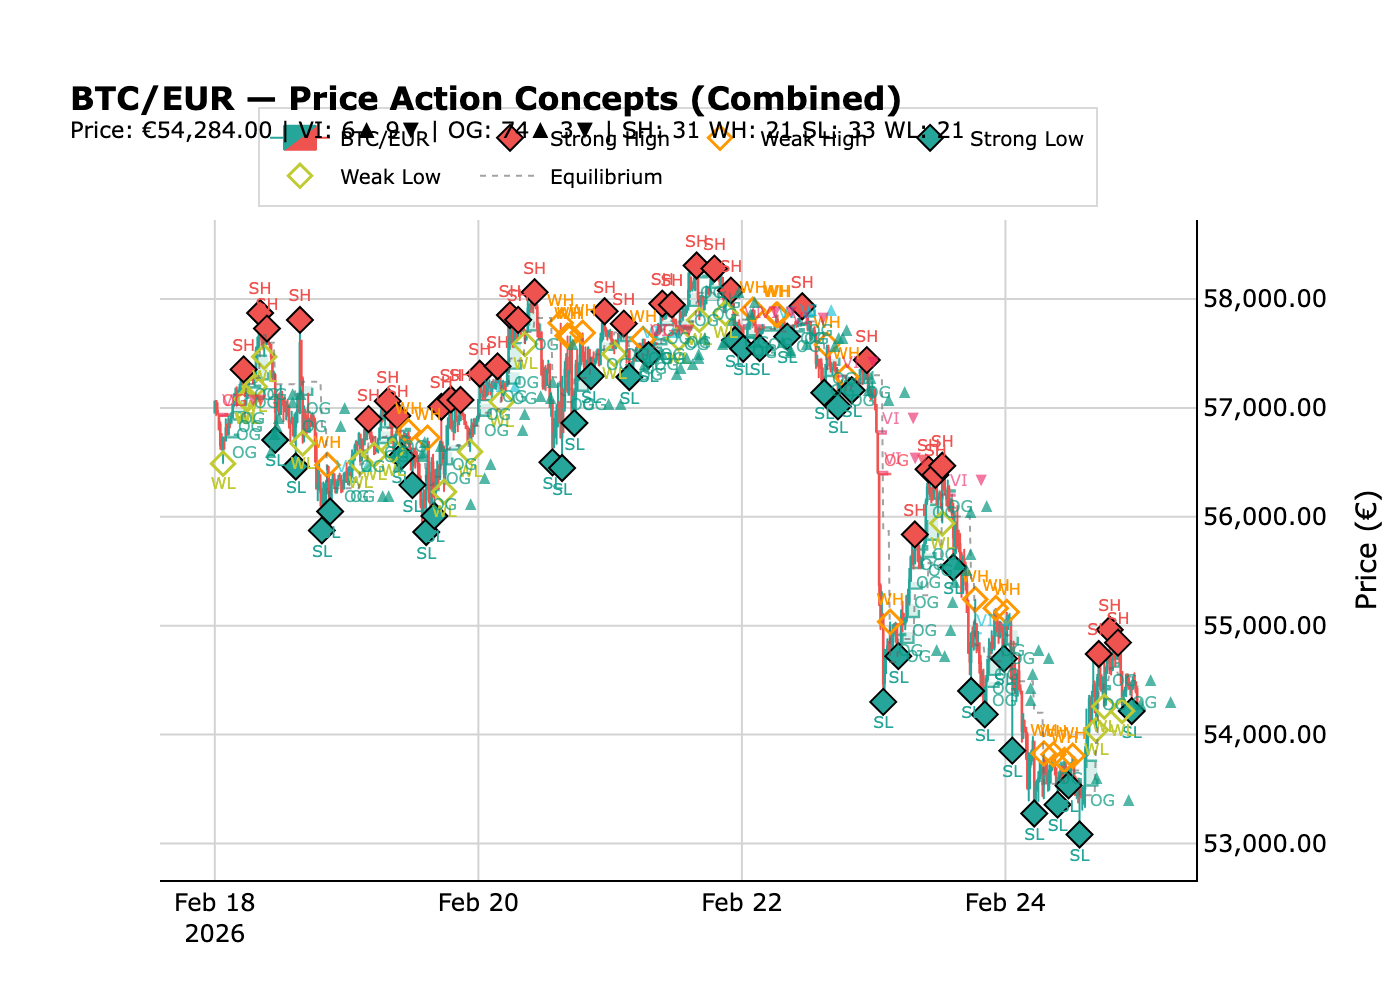
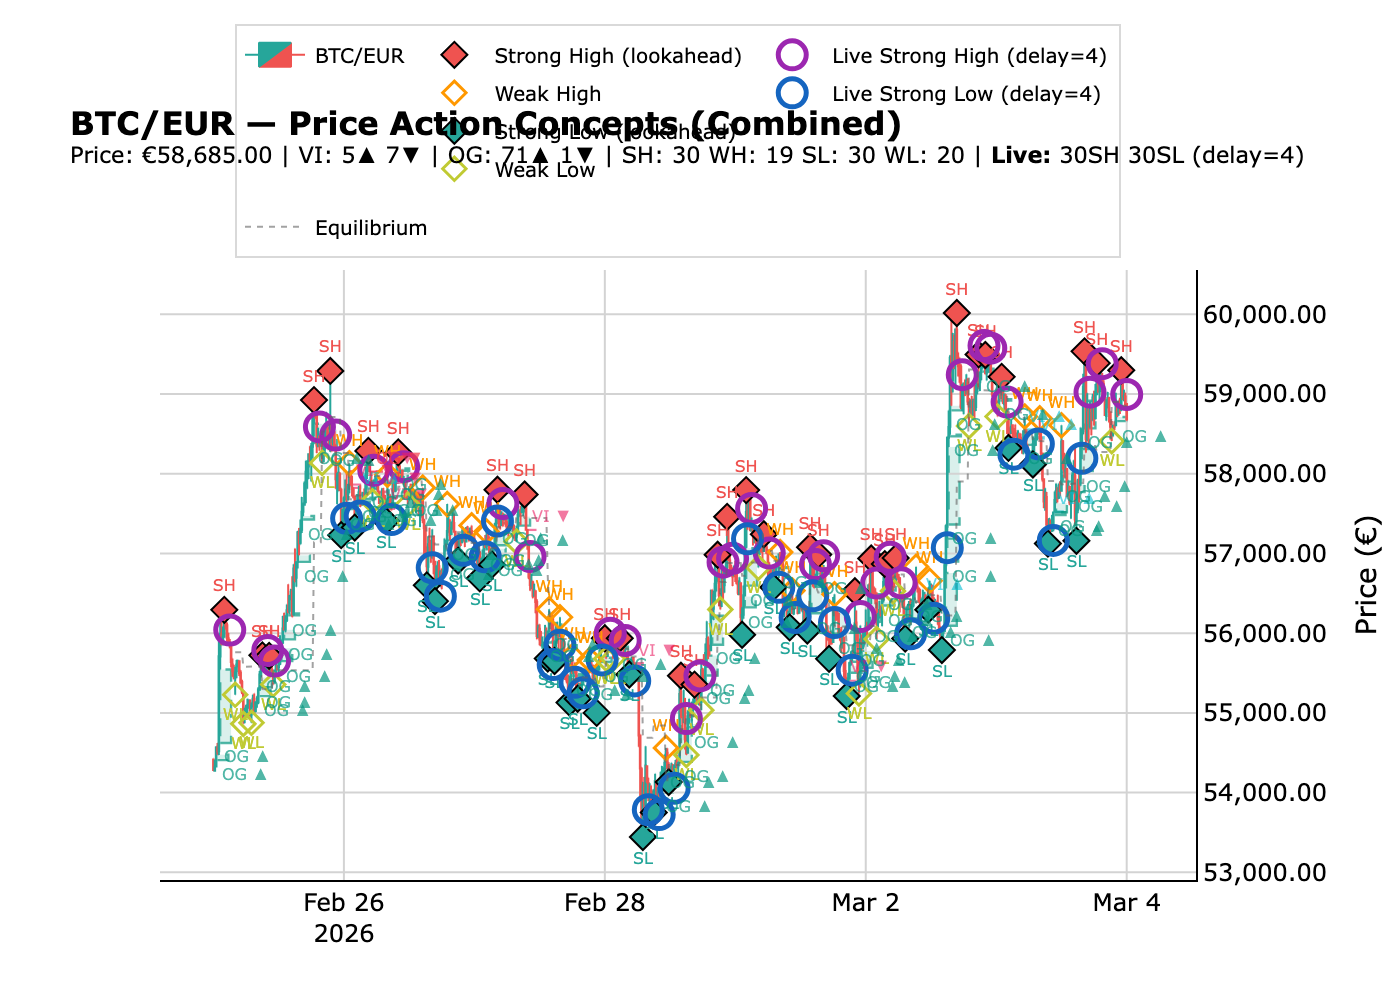
Add price action combined indicator live

diff --git a/pyindicators/indicators/strong_weak_high_low.py b/pyindicators/indicators/strong_weak_high_low.py
@@ -189,6 +189,86 @@ def strong_weak_high_low_signal(
     )
 
 
+def strong_weak_high_low_signal_live(
+    data: Union[PdDataFrame, PlDataFrame],
+    swing_lookback: int = 50,
+    sw_high_column: str = "sw_high",
+    sw_low_column: str = "sw_low",
+    sw_high_type_column: str = "sw_high_type",
+    sw_low_type_column: str = "sw_low_type",
+    live_signal_column: str = "sw_live_signal",
+    live_high_column: str = "sw_live_high",
+    live_low_column: str = "sw_live_low",
+    live_high_type_column: str = "sw_live_high_type",
+    live_low_type_column: str = "sw_live_low_type",
+) -> Union[PdDataFrame, PlDataFrame]:
+    """
+    Generate live trading signals from Strong/Weak High-Low (no lookahead).
+
+    The standard ``strong_weak_high_low()`` indicator uses pivot detection
+    that looks forward by ``pivot_length = swing_lookback // 5`` bars,
+    causing lookahead bias unsuitable for live trading or realistic
+    backtesting.
+
+    This function delays the signal by the pivot length to eliminate
+    lookahead. A swing point detected at bar *i* is only signaled at
+    bar *i + pivot_length*, when it would actually be confirmed in
+    real-time.
+
+    Signal values:
+        -  1 : Strong Low confirmed (bullish — institution buying)
+        - -1 : Strong High confirmed (bearish — institution selling)
+        -  0 : Weak swing, no swing, or not yet confirmed
+
+    Args:
+        data: DataFrame with SW columns already computed via
+            ``strong_weak_high_low()``.
+        swing_lookback: Must match the value used in the base
+            indicator call (default: 50). Used to calculate delay.
+        sw_high_column: Column with swing high flags.
+        sw_low_column: Column with swing low flags.
+        sw_high_type_column: Column with high type classification.
+        sw_low_type_column: Column with low type classification.
+        live_signal_column: Output — delayed combined signal.
+        live_high_column: Output — delayed swing high flag.
+        live_low_column: Output — delayed swing low flag.
+        live_high_type_column: Output — delayed high type.
+        live_low_type_column: Output — delayed low type.
+
+    Returns:
+        DataFrame with added live signal columns.
+
+    Example:
+        >>> df = strong_weak_high_low(df, swing_lookback=50)
+        >>> df = strong_weak_high_low_signal_live(df, swing_lookback=50)
+        >>> # Use df["sw_live_signal"] for trading
+    """
+    if isinstance(data, PlDataFrame):
+        pdf = data.to_pandas()
+        pdf = _compute_live_signal(
+            pdf, swing_lookback,
+            sw_high_column, sw_low_column,
+            sw_high_type_column, sw_low_type_column,
+            live_signal_column, live_high_column, live_low_column,
+            live_high_type_column, live_low_type_column,
+        )
+        import polars as pl
+        return pl.from_pandas(pdf)
+
+    if isinstance(data, PdDataFrame):
+        return _compute_live_signal(
+            data, swing_lookback,
+            sw_high_column, sw_low_column,
+            sw_high_type_column, sw_low_type_column,
+            live_signal_column, live_high_column, live_low_column,
+            live_high_type_column, live_low_type_column,
+        )
+
+    raise PyIndicatorException(
+        "Input data must be a pandas or polars DataFrame."
+    )
+
+
 def get_strong_weak_high_low_stats(
     data: Union[PdDataFrame, PlDataFrame],
     sw_high_column: str = "sw_high",
@@ -424,4 +504,65 @@ def _compute_signal(
             sig[i] = -1
 
     df[sig_col] = sig
+    return df
+
+
+def _compute_live_signal(
+    df: PdDataFrame,
+    swing_lookback: int,
+    sh_col: str, sl_col: str,
+    sh_type: str, sl_type: str,
+    live_sig_col: str,
+    live_high_col: str, live_low_col: str,
+    live_high_type_col: str, live_low_type_col: str,
+) -> PdDataFrame:
+    """
+    Generate delayed (live-safe) signals by shifting by pivot_length.
+
+    The pivot detection looks forward by piv_len = swing_lookback // 5
+    bars. To eliminate lookahead, we delay all swing outputs by this
+    amount — a swing detected at bar i is output at bar i + piv_len.
+    """
+    n = len(df)
+    piv_len = max(swing_lookback // 5, 2)
+
+    sh_flags = df[sh_col].values
+    sl_flags = df[sl_col].values
+    sh_types = df[sh_type].values
+    sl_types = df[sl_type].values
+
+    # Delayed output arrays
+    live_sig = np.zeros(n, dtype=int)
+    live_high = np.zeros(n, dtype=int)
+    live_low = np.zeros(n, dtype=int)
+    live_h_type = np.full(n, None, dtype=object)
+    live_l_type = np.full(n, None, dtype=object)
+
+    for i in range(n):
+        # Delayed index: swing at i becomes visible at i + piv_len
+        out_idx = i + piv_len
+        if out_idx >= n:
+            continue
+
+        # Swing high → delay
+        if sh_flags[i] == 1:
+            live_high[out_idx] = 1
+            live_h_type[out_idx] = sh_types[i]
+            if sh_types[i] == "Strong":
+                live_sig[out_idx] = -1
+
+        # Swing low → delay
+        if sl_flags[i] == 1:
+            live_low[out_idx] = 1
+            live_l_type[out_idx] = sl_types[i]
+            if sl_types[i] == "Strong":
+                # If both strong high and low on same delayed bar,
+                # low (bullish) takes precedence
+                live_sig[out_idx] = 1
+
+    df[live_sig_col] = live_sig
+    df[live_high_col] = live_high
+    df[live_low_col] = live_low
+    df[live_high_type_col] = live_h_type
+    df[live_low_type_col] = live_l_type
     return df

diff --git a/pyindicators/indicators/__init__.py b/pyindicators/indicators/__init__.py
@@ -132,7 +132,7 @@ from .opening_gap import (
 )
 from .strong_weak_high_low import (
     strong_weak_high_low, strong_weak_high_low_signal,
-    get_strong_weak_high_low_stats
+    strong_weak_high_low_signal_live, get_strong_weak_high_low_stats
 )
 from .range_intelligence import (
     range_intelligence, range_intelligence_signal,
@@ -282,6 +282,7 @@ __all__ = [
     'get_opening_gap_stats',
     'strong_weak_high_low',
     'strong_weak_high_low_signal',
+    'strong_weak_high_low_signal_live',
     'get_strong_weak_high_low_stats',
     'range_intelligence',
     'range_intelligence_signal',

diff --git a/pyindicators/__init__.py b/pyindicators/__init__.py
@@ -79,6 +79,7 @@ from .indicators import (
     get_opening_gap_stats,
     strong_weak_high_low,
     strong_weak_high_low_signal,
+    strong_weak_high_low_signal_live,
     get_strong_weak_high_low_stats,
     range_intelligence,
     range_intelligence_signal,
@@ -243,6 +244,7 @@ __all__ = [
     'get_opening_gap_stats',
     'strong_weak_high_low',
     'strong_weak_high_low_signal',
+    'strong_weak_high_low_signal_live',
     'get_strong_weak_high_low_stats',
     'range_intelligence',
     'range_intelligence_signal',
